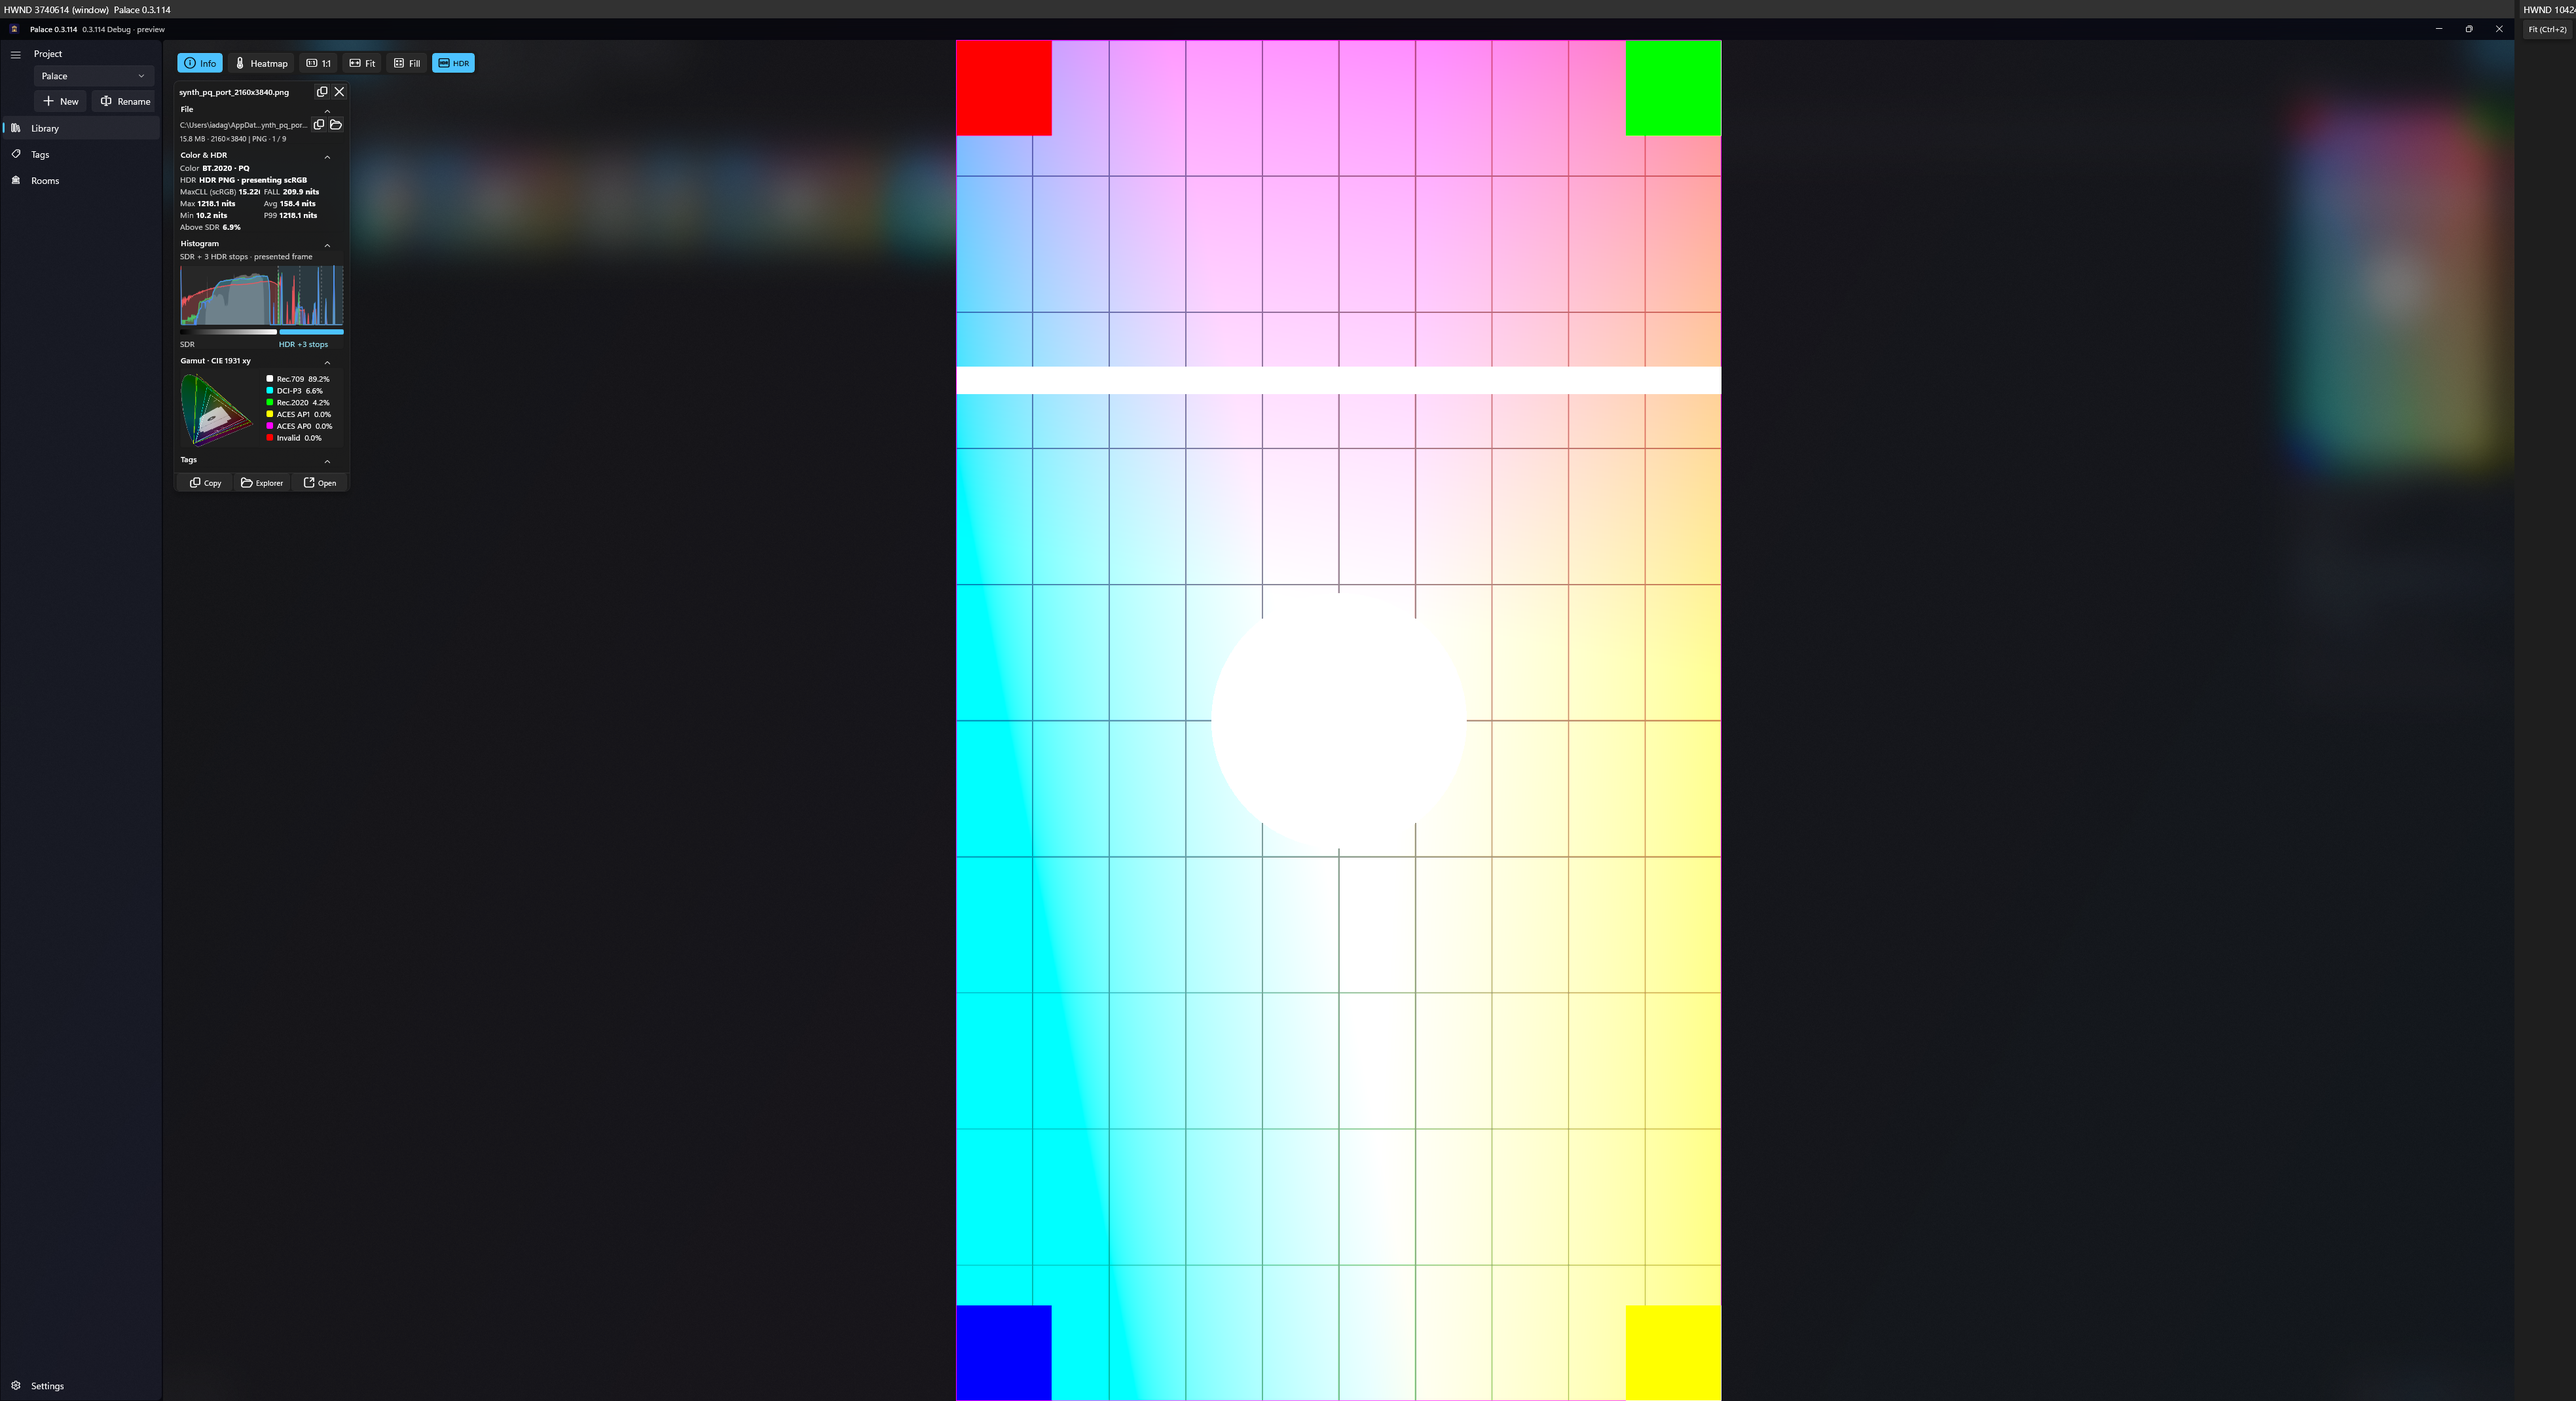
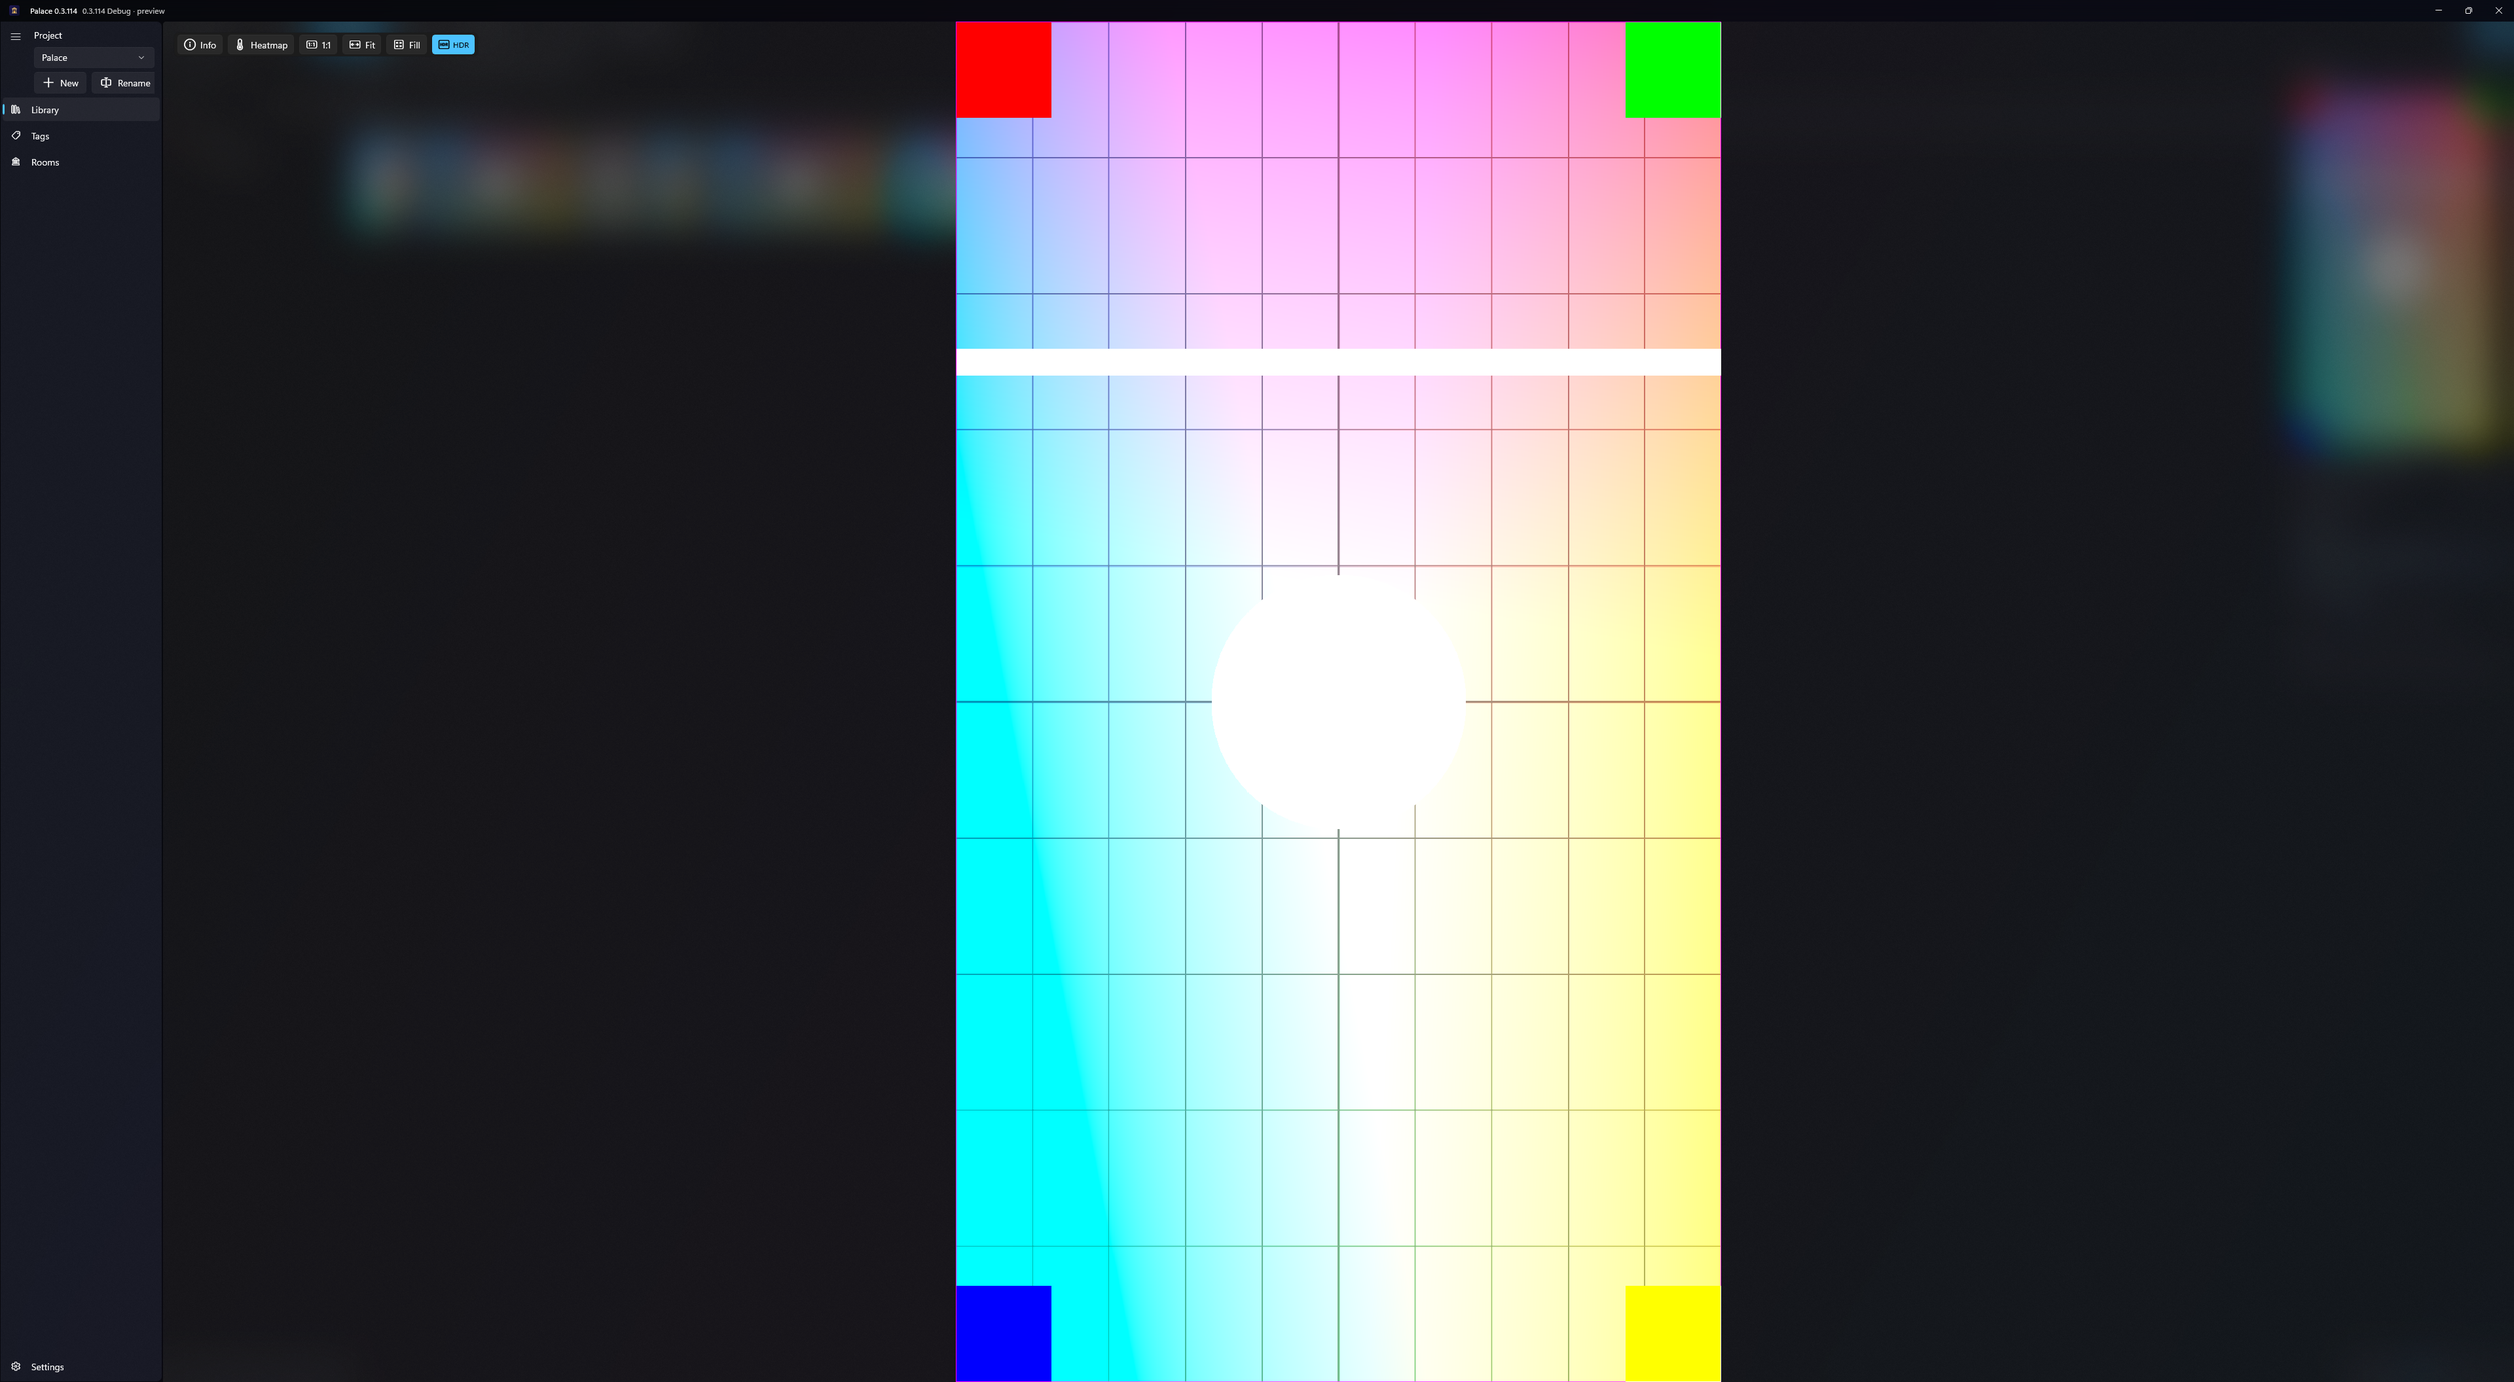
Fenrir portrait settle upgrade proof on tip 51044e0 (PR #202)
Native decode=2160x3840 Presented after >=10s max-zoom hold;
touch double-tap Actual 1:1; Fit scale 0.935; distinct MANIFEST.

Changed region(s): [[0.0, 0.0, 1.0, 1.0], [0.5312, 0.0938, 0.5938, 0.1562]]

diff --git a/media/pr-viewer-hdr-zoom/REPORT.md b/media/pr-viewer-hdr-zoom/REPORT.md
@@ -1,80 +1,72 @@
-# FenrirDesktop HDR zoom integrity capture — PR #202
+# FenrirDesktop HDR zoom integrity capture — PR #202
 
-**Tip (integrity base):** `fabb4c526a7a8b0c44f305cd92d2cd0cc301fb77` (`fabb4c5`)
-**Tip (Actual recheck):** `fcffff9e52786dad0d17714a83dad7c60a441494` (`fcffff9`)  
+**Tip (settle upgrade):** `51044e0059409118eba2b10e19d8c93d2c7733e5` (`51044e0`) — HDR settle: pending path+want prevents decode starvation  
+**Prior tips:** `fcffff9` (Actual PASS; portrait HOLD), `fabb4c5` (integrity base; Actual FAIL)  
 **Branch:** `cursor/viewer-hdr-zoom-fixes-1b82`  
-**Discard prior media** (edde086 / 5d86906 integrity FAIL — do not count)  
 **Package:** PalaceOrganizeTest-5E1F `0.3.114.0`  
-**Host:** FenrirDesktop 3840×2160 @ 96 DPI (scale=1.0); maximized client 3840×2112  
+**Host:** FenrirDesktop 3840×2160 @ 96 DPI (scale=1.0); maximized; ScrStill client **3591×2079** (preview pane on)  
+**Fit scale:** **0.935** (= 3591/3840 for landscape Fit present decode width)  
 **Override:** `-AllowDesktop` + `Isiac authorized desktop testing for viewer HDR zoom bugs A/B/C (PR #202)`  
 **Env:** `PALACE_HDR_PRESENT_LOG=1` → `{PALACE_DATA_DIR}/hdr-present.log`  
-**Data:** LocalState `palace-data` SourceFolder → `%TEMP%\palace-pr202-hdr-fabb4c5\viewer-hdr` (synthetic only; no DPI; no C20A)
+**Data:** LocalState `palace-data` SourceFolder → `%TEMP%\palace-pr202-hdr-51044e0\viewer-hdr` (synthetic only; no DPI; no C20A)
 
 ## Integrity
 
 | Check | Result |
 |---|---|
-| All PNGs distinct sha256 | **PASS** — see `MANIFEST.json` (8 PNGs, no duplicate hashes); sizes match disk |
-| Separate rapid-notch shot | **PASS** — `16-land4k-rapid-notch-maxzoom.png` sha ≠ pre-fit and ≠ slow maxzoom |
-| Cursor + disc-under-cursor | **PASS** — cursor logged; maxzoom/rapid `cursor_rgb=[255,255,255]` `white_frac_r40=1.0` |
-| Honest DIP-cap zoom (not ~8×) | **PASS** — present log `panelDip=8192x4608` (cap); effective zoom ≈ 8192/3591 ≈ **2.28×** Fit panel |
-| Real app present logs | **PASS** — `hdr-present-*.log` from `PALACE_HDR_PRESENT_LOG` (decode/panelDip/bufferPx/scale/result) |
-| Actual disc Ø720 | **FAIL** — measured diam_radial=673; present log decode stays `3591x2020` (not native `3840x2160`). HDR forces `DisplayScaling=Fit` when presentable (`GalleryScale.DisplayScaling`); Actual sticky does not yield native 1:1 present on this tip. |
-| Clean error-log | **PASS** — empty / no `GalleryStillSurface HDR present` |
+| All PNGs distinct sha256 | **PASS** — see `MANIFEST.json` |
+| Real app present logs | **PASS** — `hdr-present-portrait-maxzoom.log` / `hdr-present-portrait-actual-51044e0.log` from `PALACE_HDR_PRESENT_LOG` |
+| Clean error-log | **PASS** — `error-log-51044e0.txt` empty |
+| FenrirDesktop policy | **PASS** — override audit in `palace-ui-desktop-override.log` |
 
-## Verdicts (functional)
+## Portrait PQ settle upgrade — tip `51044e0` (required)
+
+Hold ≥10s after max-zoom settle. Must show native decode Presented (not stuck at ~1169×2079).
 
 | Check | Result |
 |---|---|
-| Maximized + Fit land HDR present | **PASS** — Info + present path; fit disc diam_radial≈673 (native disc=720; Fit scale ≈0.98) |
-| Max zoom under DIP cap + new present | **PASS** — `result=Presented` at `panelDip=8192x4608` `bufferPx=8192x4608` |
-| Rapid-notch no collapse to 0,0 | **PASS** — `frac_tl=0.0004`; disc still under cursor white |
-| Portrait PQ max zoom present | **PASS** — `HDR PNG` path; `panelDip=4608x8192` `result=Presented` |
+| Portrait PQ max zoom → native decode | **PASS** — after 12.0s hold: `decode=2160x3840 panelDip=4608x8192 bufferPx=4608x8192 scale=1x1 result=Presented` |
+| Not stuck at intermediate | **PASS** — intermediate `1152x2048` / Fit-sized presents superseded by native Present |
+| Double-tap 1:1 (touch simulated) | **PASS** — `winapp ui touch --at x,y -g double-tap`; 1st → Fit panel (`1169×2079`); 2nd → Actual `panelDip=2160x3840` |
+| Fit scale reported | **0.935** |
 
-## Key present-log lines (verbatim from app)
+### Verbatim present-log (portrait maxzoom settle)
 
 ```
-# land maxzoom
-file=synth_land_3840x2160.hdr decode=3591x2020 panelDip=8192x4608 bufferPx=8192x4608 scale=1x1 result=Presented
-
-# rapid
-file=synth_land_3840x2160.hdr decode=3591x2020 panelDip=8192x4608 bufferPx=8192x4608 scale=1x1 result=Presented
-
-# actual (FAIL native 1:1)
-file=synth_land_3840x2160.hdr decode=3591x2020 panelDip=3591x2019.94 bufferPx=3591x2020 scale=1x1 result=Presented
-
-# portrait maxzoom
-file=synth_pq_port_2160x3840.png decode=1169x2079 panelDip=4608x8192 bufferPx=4608x8192 scale=1x1 result=Presented
+2026-11-23T04:57:22.214Z file=synth_pq_port_2160x3840.png decode=1152x2048 panelDip=1712.17x3043.86 bufferPx=1712x3044 scale=1x1 result=Presented
+2026-11-23T04:57:23.932Z file=synth_pq_port_2160x3840.png decode=1152x2048 panelDip=4608x8192 bufferPx=4608x8192 scale=1x1 result=Presented
+2026-11-23T04:57:23.933Z file=synth_pq_port_2160x3840.png decode=2160x3840 panelDip=0x0 bufferPx=0x0 scale=0x0 result=DecodeStart detail=refresh
+2026-11-23T04:57:25.557Z file=synth_pq_port_2160x3840.png decode=1152x2048 panelDip=4608x8192 bufferPx=4608x8192 scale=1x1 result=Presented
+2026-11-23T04:57:32.362Z file=synth_pq_port_2160x3840.png decode=2160x3840 panelDip=4608x8192 bufferPx=4608x8192 scale=1x1 result=Presented
 ```
+
+### Verbatim present-log (double-tap → Actual 1:1)
+
+```
+2026-11-23T04:57:41.668Z file=synth_pq_port_2160x3840.png decode=2160x3840 panelDip=1169.44x2079 bufferPx=1169x2079 scale=1x1 result=Presented
+2026-11-23T04:58:12.865Z file=synth_pq_port_2160x3840.png decode=2160x3840 panelDip=2160x3840 bufferPx=2160x3840 scale=1x1 result=Presented
+```
+
+### Shots (this tip)
+
+| File | Role |
+|---|---|
+| `20-port4k-pq-fit.png` | Portrait PQ Fit open |
+| `24-port4k-pq-maxzoom.png` | Max zoom after ≥10s settle (native present) |
+| `42-port4k-pq-doubletap-fit-51044e0.png` | After 1st double-tap (Fit panel) |
+| `43-port4k-pq-actual-1to1-51044e0.png` | After 2nd double-tap (Actual 2160×3840) |
+| `CAPTURE_EVENTS_51044e0.txt` | Timed event log |
+| `hdr-present-portrait-maxzoom.log` | Settle proof log |
+| `hdr-present-portrait-actual-51044e0.log` | Double-tap / Actual proof log |
+
+## Prior (still in package)
+
+- `fabb4c5` integrity land maxzoom / rapid-notch / disc measures — kept
+- `fcffff9` land Actual native `decode=3840x2160` + Ø720 — kept (`30`/`31` shots)
+- Portrait PASS on `fcffff9` remains **discarded** (never upgraded); superseded by `51044e0` proof above
 
 ## Notes
 
-- Fixture disc diameter at native = `2*(min(w,h)/6)` = **720** px for 3840×2160.
-- Wheel still ramps `_pinchZoom` toward 8, but `CapStillPanelSize` clamps panel DIPs so physical ≤8192 → **~2.28×** Fit, not 8× visual.
-- No reused/hand-written logs; all `hdr-present-*.log` copied from DataDir after the action.
-
----
-
-## Actual recheck — tip `fcffff9` (2026-11-23)
-
-**Tip:** `fcffff9e52786dad0d17714a83dad7c60a441494` — HDR Actual clears Fit-on-open force for explicit Actual/Fill.
-
-Prior tip `fabb4c5` Actual Ø720 was **FAIL** (HDR forced DisplayScaling=Fit; decode stayed 3591×2020).
-
-| Check | Result |
-|---|---|
-| After Actual: present-log `decode=3840x2160` | **PASS** — `hdr-present-actual-fcffff9.log`: `decode=3840x2160 panelDip=3840x2160 bufferPx=3840x2160 result=Presented` |
-| Disc Ø720 | **PASS** — measured diam_radial=**717** (fit baseline 673); see `31-actual-disc-measure.json` |
-| New shots distinct sha256 | **PASS** — appended to `MANIFEST.json` |
-| Clean error-log (recheck) | **PASS** — `error-log-fcffff9.txt` |
-
-Verbatim present lines:
-```
-file=synth_land_3840x2160.hdr decode=3591x2020 panelDip=3591x2019.94 bufferPx=3591x2020 scale=1x1 result=Cancelled
-file=synth_land_3840x2160.hdr decode=3840x2160 panelDip=3840x2160 bufferPx=3840x2160 scale=1x1 result=Presented
-```
-
-Shots: `30-land4k-fit-before-actual.png`, `31-land4k-actual-1to1.png`.
-
-
-**Media branch SHA:** `af80a42bf963b8b2fcaaac16122ab6cdf57b17d1` (`af80a42`) on `media/pr-viewer-hdr-zoom`.
+- Wheel ramps toward 8×; DIP cap clamps panel to 8192 → portrait max `panelDip=4608x8192`
+- Fit scale **0.935** = ScrStill width 3591 / native land width 3840
+- No DPI flips; 5E1F packaged only; catalog restored after capture
